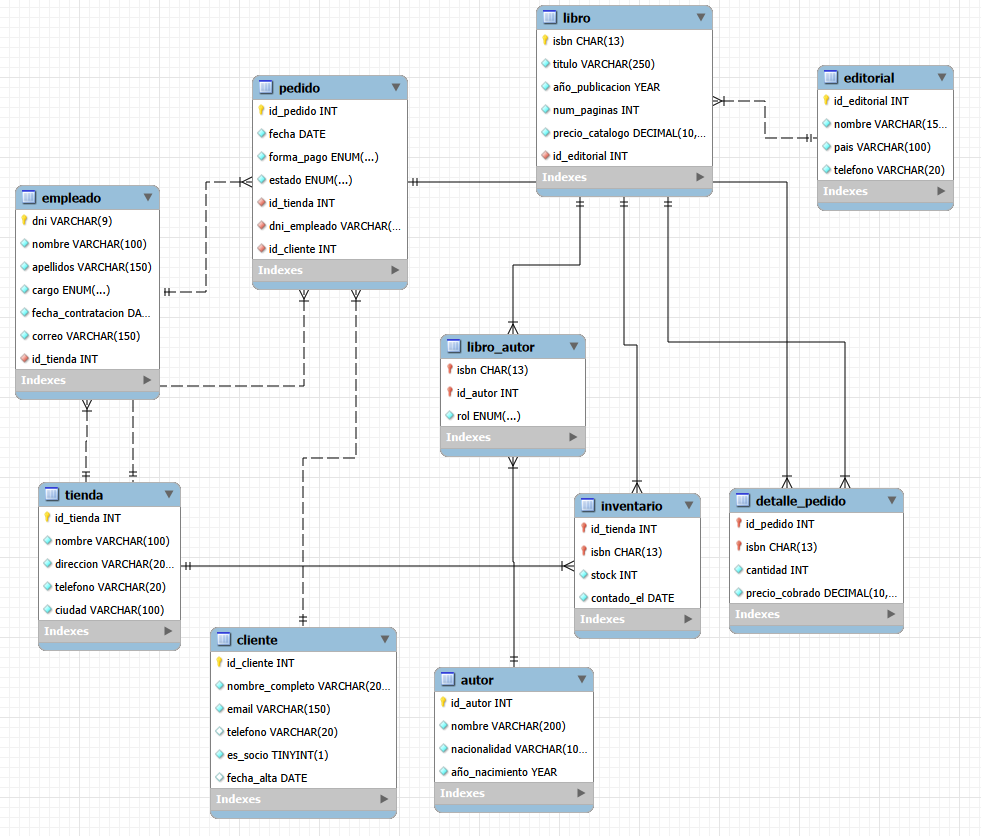
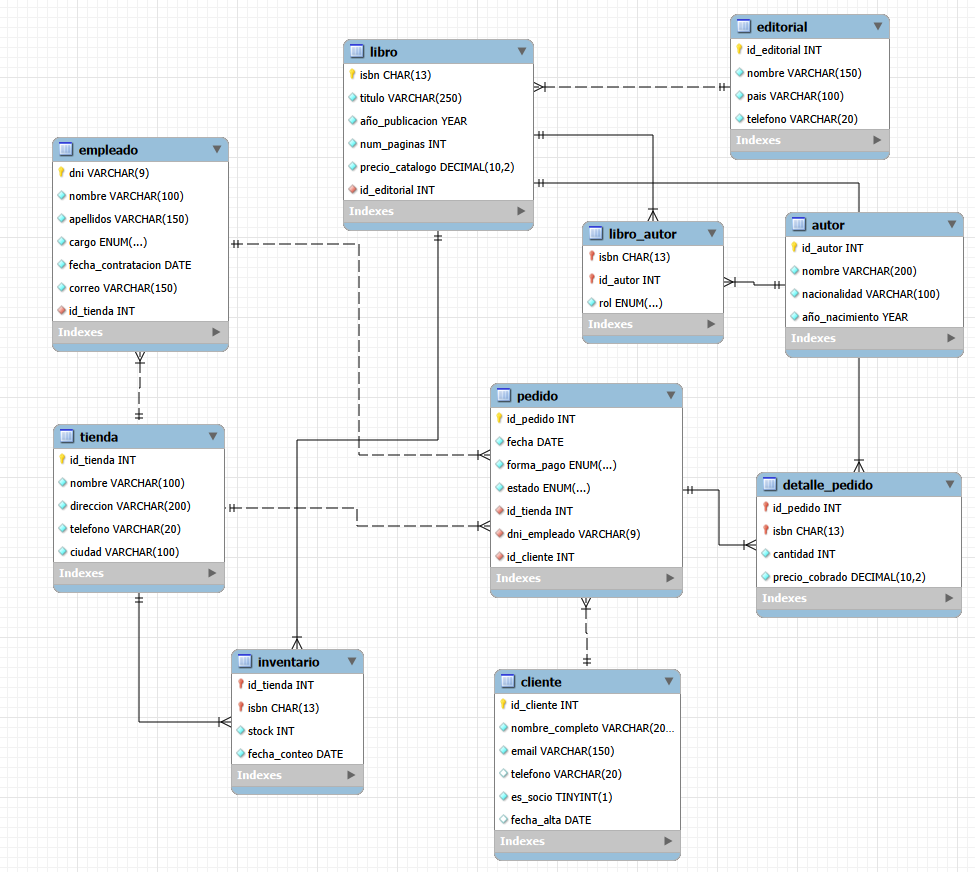
a

Changed region(s): [[0.0, 0.0, 1.0, 0.9952], [0.8, 0.4665, 0.8308, 0.4976], [0.2769, 0.5598, 0.3077, 0.5909]]

diff --git a/ProyectoFINAL/Parte3/md2.md b/ProyectoFINAL/Parte3/md2.md
@@ -4,13 +4,21 @@
 Páginas de Villa Serena abrió hace veinte años como una pequeña tienda de barrio. Hoy tiene tres tiendas: Centro, Ribera y Universidad. Cada una tiene su nombre, su dirección, su teléfono y su ciudad (Ribera está en el pueblo vecino de Aldeaverde).
 
 ## 2. Análisis del caso
-### 2.1 Entidades y atributos
-| Entidad |  Atributos encontrados  | Fragmento del texto |
-|:--------|:-----------------------:|--------------------:|
-| Libro      | isbn, titulo, año_publicación, num_paginas, precio_catalogo                  | 20                  |
-| Autor      | String                  | 20                  |
-| Editorial      | String                  | 20                  |
 
+### 2.1 Entidades y atributos
+
+| Entidad | Atributos encontrados | Fragmento del texto |
+|:---|:---|:---|
+| Tienda | id_tienda, nombre, direccion, telefono, ciudad | La librería cuenta con tres tiendas: Centro, Ribera y Universidad. De cada tienda se guarda su nombre, dirección, teléfono y ciudad. |
+| Empleado | dni, nombre, apellidos, cargo, fecha_contratacion, correo, id_tienda (FK) | De cada empleado se registra el DNI, nombre, apellidos, puesto, fecha de contratación y correo electrónico. Cada empleado trabaja en una tienda. |
+| Cliente | id_cliente, nombre_completo, email, telefono, es_socio, fecha_alta | Se registran los clientes, tanto socios como no socios, con su nombre y correo electrónico. |
+| Editorial | id_editorial, nombre, pais, telefono | De cada editorial se guarda el nombre, país y teléfono de contacto. |
+| Libro | isbn, titulo, año_publicacion, num_paginas, precio_catalogo, id_editorial (FK) | Cada libro se identifica por su ISBN de 13 dígitos y se guarda su título, año de publicación, número de páginas y precio de catálogo. Cada libro pertenece a una editorial. |
+| Autor | id_autor, nombre, nacionalidad, año_nacimiento | De cada autor se registra el nombre, nacionalidad y año de nacimiento. |
+| Libro_Autor | isbn (FK), id_autor (FK), rol | Un libro puede tener varios autores y cada autor puede escribir varios libros. Se indica si el autor es principal o colaborador. |
+| Inventario | id_tienda (FK), isbn (FK), stock, contado_el | Para cada combinación de libro y tienda se registra el stock y la fecha del último recuento. |
+| Pedido | id_pedido, fecha, forma_pago, estado, id_tienda (FK), dni_empleado (FK), id_cliente (FK) | Cada pedido se realiza en una tienda, lo gestiona un empleado y corresponde a un cliente. Se registra la fecha, forma de pago y estado. |
+| Detalle_Pedido | id_pedido (FK), isbn (FK), cantidad, precio_cobrado | Los pedidos pueden contener varios libros y se registra la cantidad de cada uno y el precio realmente cobrado. |
 
 
 ### 2.2 Relaciones
